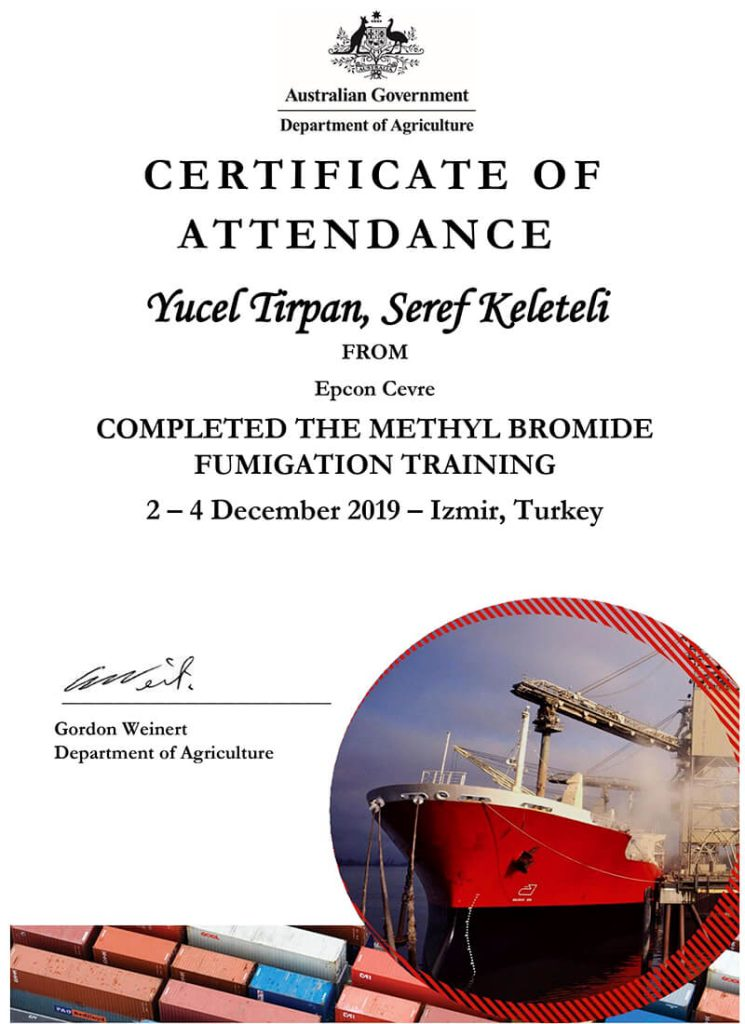
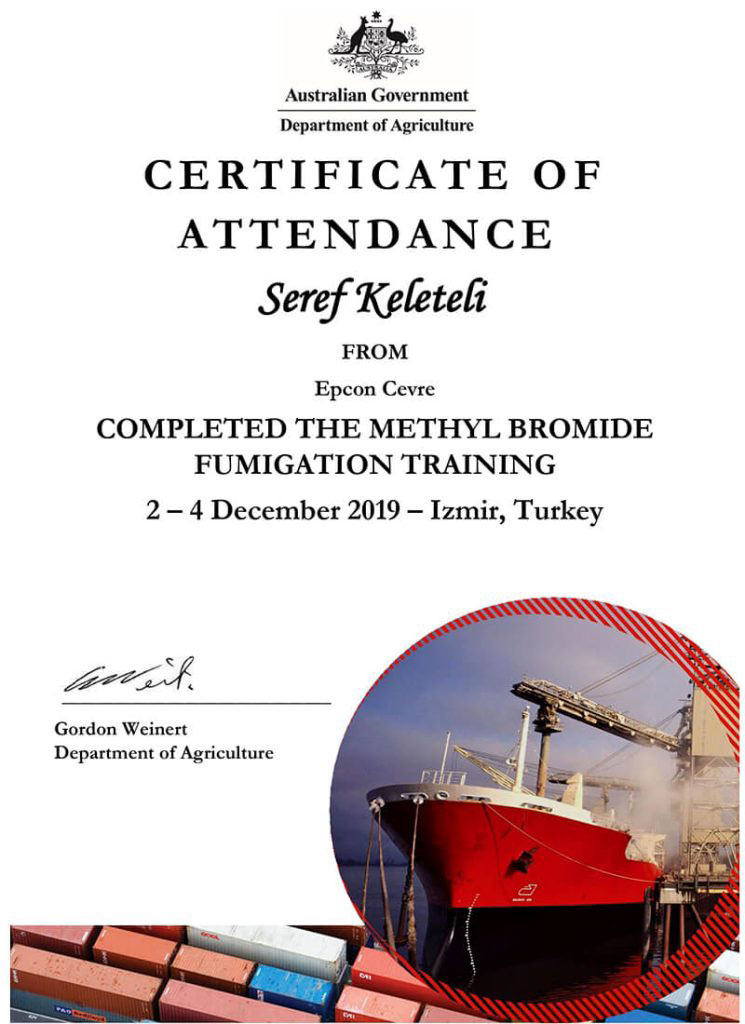
belge

diff --git a/app/belgelerimiz/page.tsx b/app/belgelerimiz/page.tsx
@@ -181,7 +181,7 @@ export default function BelgelerimizPage() {
                    src={selectedImage} 
                    alt="Sertifika" 
                    className="max-w-full max-h-[85vh] object-contain block select-none"
-                   onContextMenu={(e) => e.preventDefault()} // Sağ Tıklamayı Engeller
+                   onContextMenu={(e) => e.preventDefault()} // Sağ Tıklamayı Engelle
                    onError={(e) => {
                       (e.target as HTMLImageElement).src = 'https://via.placeholder.com/800x1131.png?text=Belge+Hen%C3%BCz+Y%C3%BCklenmedi'; 
                    }}
